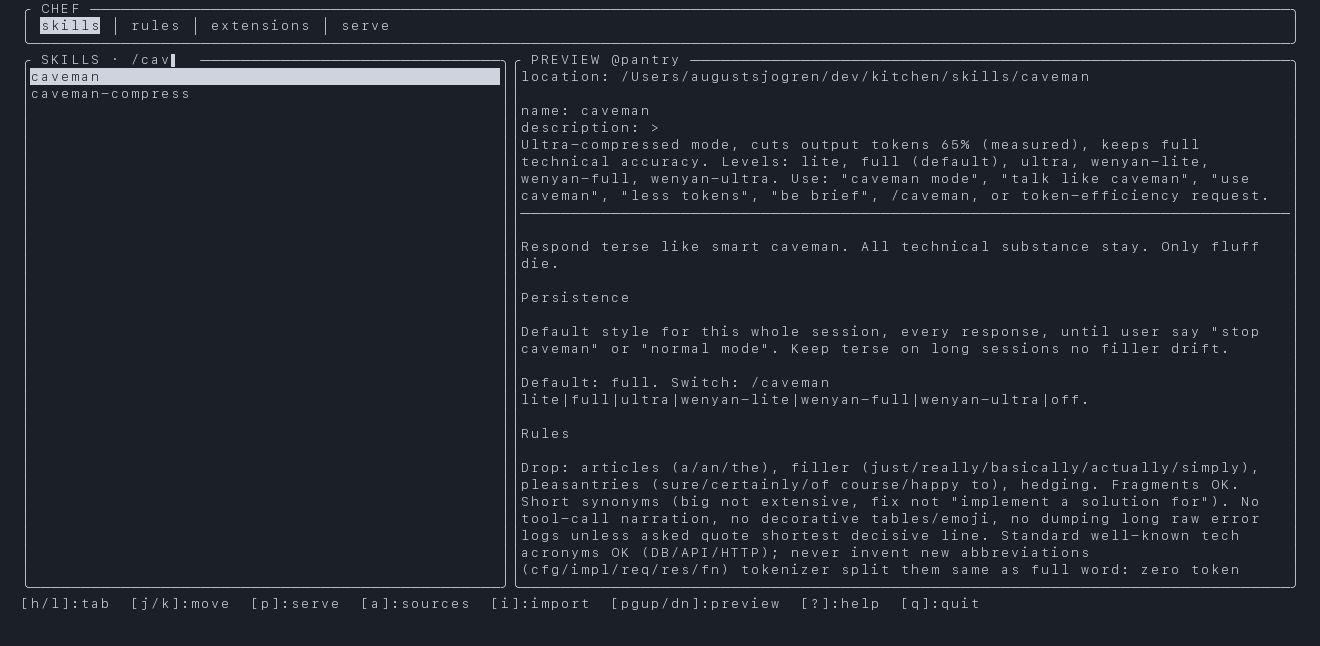
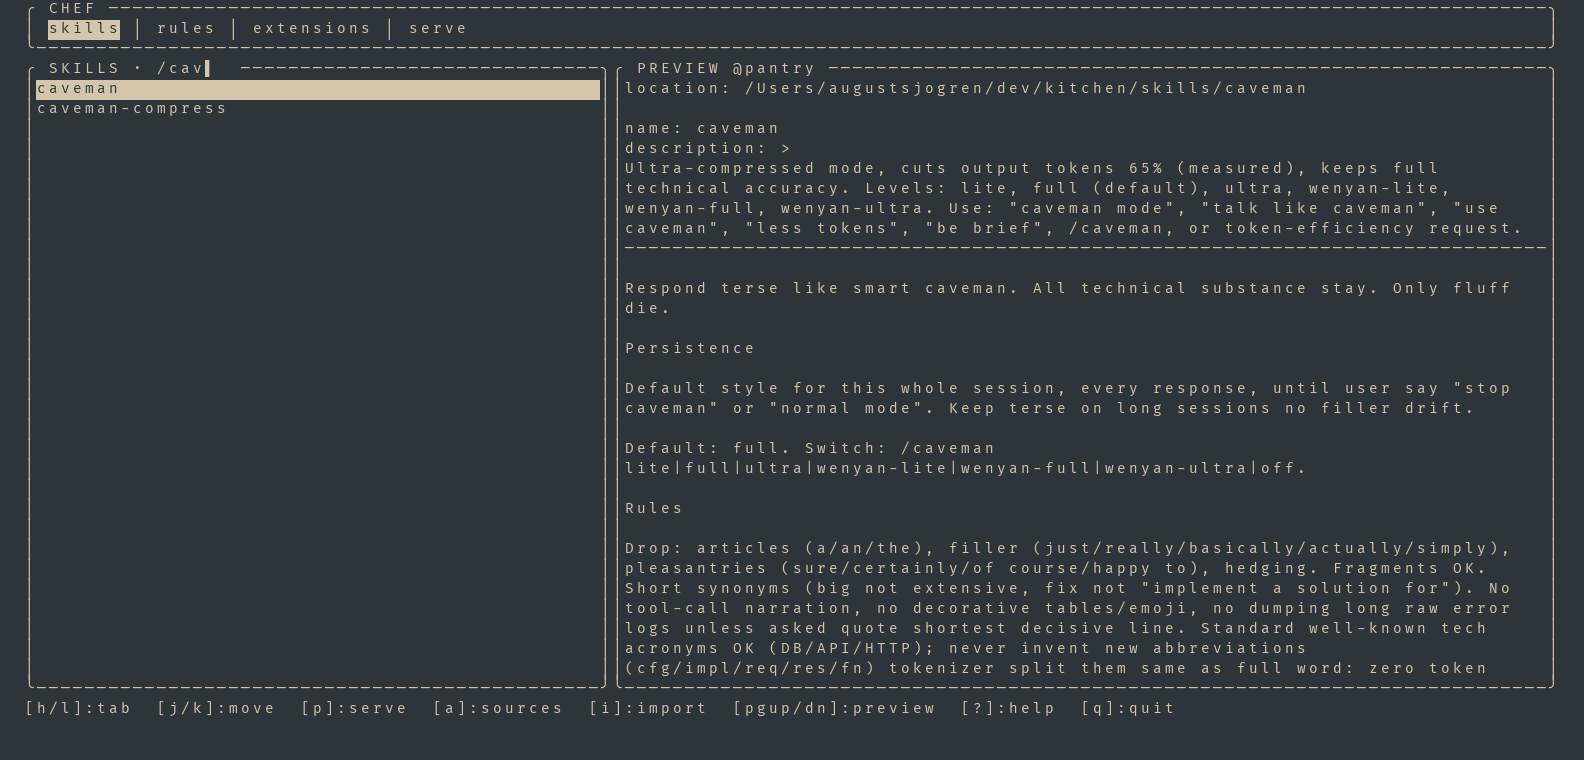
Screenshots: render in author terminal theme (everforest-dark, Fira Code)

Changed region(s): [[0.0, 0.0, 0.9939, 0.9598]]

diff --git a/assets/ansi2png.py b/assets/ansi2png.py
@@ -5,15 +5,21 @@ import re
 from PIL import Image, ImageDraw, ImageFont
 
 COLS, ROWS = 132, 38
-CELL_W, CELL_H = 10, 17
-BG = (27, 31, 39)
-FG = (206, 212, 222)
-FG16 = {30: (90, 96, 106), 31: (205, 92, 80), 32: (138, 168, 122),
-        33: (232, 180, 90), 34: (110, 140, 180), 35: (180, 140, 200),
-        36: (120, 170, 180), 37: FG, 90: (120, 126, 134),
-        91: (215, 110, 95), 92: (160, 195, 140), 93: (245, 200, 120),
-        94: (140, 170, 210), 95: (200, 160, 220), 96: (150, 200, 210), 97: FG}
-ANSI_256 = [(224, 228, 236)] * 256
+CELL_W, CELL_H = 12, 20
+# Ghostty everforest-dark (matches the author terminal theme)
+BG = (45, 53, 59)      # #2d353b
+FG = (211, 198, 170)   # #d3c6aa
+RED = (230, 126, 128)  # #e67e80
+GREEN = (167, 192, 128)  # #a7c080
+YELLOW = (219, 188, 127)  # #dbbc7f
+BLUE = (127, 187, 179)   # #7fbbb3
+MAGENTA = (214, 153, 182)  # #d699b6
+CYAN = (131, 192, 146)   # #83c092
+MUTED = (133, 146, 137)  # #859289
+FG16 = {30: MUTED, 31: RED, 32: GREEN, 33: YELLOW, 34: BLUE, 35: MAGENTA,
+        36: CYAN, 37: FG, 90: MUTED, 91: RED, 92: GREEN, 93: YELLOW,
+        94: BLUE, 95: MAGENTA, 96: CYAN, 97: FG}
+ANSI_256 = [FG] * 256
 
 CSI = re.compile(r"\x1b\[([0-9;:]*)([a-zA-Z])")
 
@@ -79,7 +85,8 @@ def render(text, out):
 
     img = Image.new("RGB", (COLS * CELL_W, ROWS * CELL_H), BG)
     draw = ImageDraw.Draw(img)
-    font = ImageFont.truetype("/System/Library/Fonts/SFNSMono.ttf", 13)
+    font = ImageFont.truetype(
+        "/Users/augustsjogren/Library/Fonts/FiraCodeNerdFontMono-Regular.ttf", 14)
     for (row, col), (gch, cng, cbg) in grid.items():
         x, y = col * CELL_W, row * CELL_H
         if cbg:
